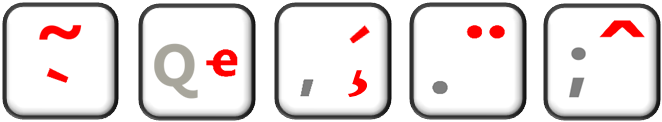
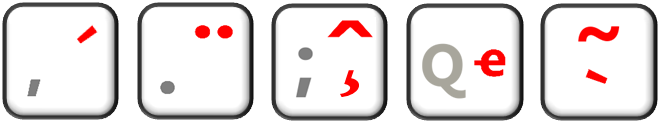
Add files via upload

diff --git a/index.html b/index.html
@@ -47,6 +47,9 @@
   .brand small{font-size:22px;font-weight:400;color:#d0d0d0;margin-left:10px}
   .topKeys{display:flex;gap:14px}
   .topKeys img{width:64px;height:64px;object-fit:contain;filter:drop-shadow(0 3px 4px rgba(0,0,0,.35))}
+  .topKeys {
+  transform: translateX(-220px); /* 왼쪽으로 이동 */
+}
   .surface{display:grid;grid-template-columns:1.25fr 220px;gap:24px;align-items:start}
   .padWrap{background:#1a2230;border:none;min-height:520px;padding:0;border-radius:6px}
   #pad{width:100%;min-height:520px;border:none;background:#1a2230;color:#fff;outline:none;padding:22px;margin:0;resize:none;font:28px/1.6 ui-monospace,Menlo,Consolas,monospace;border-radius:6px}
@@ -145,7 +148,7 @@
 
     <div class="slide on" data-step="0">
       <div class="s1-wrap">
-        <h1 class="title1">UniQwerty / Parallel Layout</h1>
+        <h1 class="title1">UniQwerty / Parallel Accents</h1>
         <div class="bullets">
           <div>&nbsp;&nbsp;</div>
 		  <div>•&nbsp;&nbsp;No Dead Keys. No Shift. No AltGr. No Long Press.</div>
@@ -158,49 +161,13 @@
       </div>
     </div>
 
-    <div class="slide" data-step="1">
-      <div class="frame">
-        <img class="keyIcon" src="img/grave.png" alt="Grave & Tilde keys">
-        <h3 class="hd">How to use this key</h3>
-        <p class="sub">`+aeiou → àèìòù <small></small><br>
-        `+n → ñ <small>(Shift is not required)</small><br>
-		Otherwise, it stays as the symbol itself.</p>
-        <div class="rule">
-          <svg class="check" viewBox="0 0 24 24" xmlns="http://www.w3.org/2000/svg"><path fill="#10b981" d="M9 16.2 4.8 12l-1.4 1.4L9 19 21 7l-1.4-1.4z"/></svg>
-          <div class="ruleText">
-            You don’t need to press Shift to type “~” for ñ/Ñ.<br>
-			Your grave input(`) is always entered as the accent grave(`) before aeiou, but as the accent tilde(~) before n, and as the symbol grave in all other cases.<br>
-			This is what the Parallel Layout is about.
-          </div>
-        </div>
-        <div class="counter">2/7</div>
-      </div>
-    </div>
-
-    <div class="slide" data-step="2">
-      <div class="frame">
-        <img class="keyIcon" src="img/q.png" alt="q ligature key">
-        <h3 class="hd">How to use this key</h3>
-        <p class="sub">q+a → æ<br>q+o → œ<br><small></small>
-		Otherwise, it stays as just q</p>
-        <div class="rule">
-          <svg class="check" viewBox="0 0 24 24" xmlns="http://www.w3.org/2000/svg"><path fill="#10b981" d="M9 16.2 4.8 12l-1.4 1.4L9 19 21 7l-1.4-1.4z"/></svg>
-          <div class="ruleText">
-            You probably don’t know any words that contain <b>-qa-</b> or <b>-qo-</b>.<br>
-            So this combination safely serves only for accent input.
-          </div>
-        </div>
-        <div class="counter">3/7</div>
-      </div>
-    </div>
 
     <div class="slide" data-step="3">
       <div class="frame">
         <img class="keyIcon" src="img/comma.png" alt="comma trigger key">
         <h3 class="hd">How to use this key</h3>
         <p class="sub">,+aeiouy → áéíóúý <small></small><br>
-        ,+c → ç <small></small><br>
-		Otherwise, it stays as comma.</p>
+        Otherwise, it stays as comma.</p>
         <div class="rule">
           <svg class="check" viewBox="0 0 24 24" xmlns="http://www.w3.org/2000/svg"><path fill="#10b981" d="M9 16.2 4.8 12l-1.4 1.4L9 19 21 7l-1.4-1.4z"/></svg>
           <div class="ruleText">
@@ -208,7 +175,7 @@
             Therefore, there’s absolutely no chance of conflict when you type a vowel right after it.
           </div>
         </div>
-        <div class="counter">4/7</div>
+        <div class="counter">2/7</div>
       </div>
     </div>
 
@@ -225,7 +192,7 @@
             So this pattern never interferes with your regular writing.
           </div>
         </div>
-        <div class="counter">5/7</div>
+        <div class="counter">3/7</div>
       </div>
     </div>
 
@@ -234,6 +201,7 @@
         <img class="keyIcon" src="img/semicolon.png" alt="semicolon trigger key">
         <h3 class="hd">How to use this key</h3>
         <p class="sub">;+aeiouy → âêîôûŷ <small></small><br>
+		;+c → ç <small></small><br>
 		Otherwise, it stays as semicolon.</p>
         <div class="rule">
           <svg class="check" viewBox="0 0 24 24" xmlns="http://www.w3.org/2000/svg"><path fill="#10b981" d="M9 16.2 4.8 12l-1.4 1.4L9 19 21 7l-1.4-1.4z"/></svg>
@@ -244,21 +212,58 @@
 It’s a good habit to leave a space after it.)
           </div>
         </div>
-        <div class="counter">6/7</div>
+        <div class="counter">4/7</div>
       </div>
     </div>
+
+    <div class="slide" data-step="2">
+      <div class="frame">
+        <img class="keyIcon" src="img/q.png" alt="q ligature key">
+        <h3 class="hd">How to use this key</h3>
+        <p class="sub">q+a → æ<br>q+o → œ<br><small></small>
+		Otherwise, it stays as just q</p>
+        <div class="rule">
+          <svg class="check" viewBox="0 0 24 24" xmlns="http://www.w3.org/2000/svg"><path fill="#10b981" d="M9 16.2 4.8 12l-1.4 1.4L9 19 21 7l-1.4-1.4z"/></svg>
+          <div class="ruleText">
+            You probably don’t know any words that contain <b>-qa-</b> or <b>-qo-</b>.<br>
+            So this combination safely serves only for accent input.
+          </div>
+        </div>
+        <div class="counter">5/7</div>
+      </div>
+    </div>
+
+    <div class="slide" data-step="1">
+      <div class="frame">
+        <img class="keyIcon" src="img/grave.png" alt="Grave & Tilde keys">
+        <h3 class="hd">How to use this key</h3>
+        <p class="sub">`+aeiou → àèìòù <small></small><br>
+        `+n → ñ <small>(Shift is not required)</small><br>
+		Otherwise, it stays as the symbol itself.</p>
+        <div class="rule">
+          <svg class="check" viewBox="0 0 24 24" xmlns="http://www.w3.org/2000/svg"><path fill="#10b981" d="M9 16.2 4.8 12l-1.4 1.4L9 19 21 7l-1.4-1.4z"/></svg>
+          <div class="ruleText">
+            You don’t need to press Shift to type “~” for ñ/Ñ.<br>
+			Your grave input(`) is always entered as the accent grave(`) before aeiou, but as the accent tilde(~) before n, and as the symbol grave in all other cases.<br>
+			This is what the Parallel Accents is about.
+          </div>
+        </div>
+        <div class="counter">6/7</div>
+      </div>
+    </div>	
 	
     <div class="slide" data-step="6">
       <div class="frame">
         <img class="keyIcon" src="img/tip.png" alt="semicolon trigger key">
         <h3 class="hd">Tip for Developers</h3>
         <p class="sub">Q. Does UniQwerty cause any issues while coding? <small></small><br>
-		A. Almost none.</p>
+		A. Don't worry.</p>
         <div class="rule">
           <svg class="check" viewBox="0 0 24 24" xmlns="http://www.w3.org/2000/svg"><path fill="#10b981" d="M9 16.2 4.8 12l-1.4 1.4L9 19 21 7l-1.4-1.4z"/></svg>
           <div class="ruleText">
-            Leave a space after commas and semicolons.<br>
-            If a backtick (`) ever triggers an accent, just press Backspace once — then retype it, and it’ll stay as plain text.
+            Always leave a space after commas and semicolons, just as you normally would.<br><br>
+            The grave key specifically has a developer option.<br>
+When this option is enabled, you can type the plain grave symbol instead of the grave accent by pressing `+Space.
           </div>
         </div>
         <button class="tryBig" id="tryBig">Try it now</button>
@@ -282,13 +287,13 @@ It’s a good habit to leave a space after it.)
 <section id="demo">
   <div class="demoWrap">
     <div class="demoTop">
-      <div class="brand">UniQwerty<small> Feel the Parallel Layout</small></div>
-      <div class="topKeys">
-        <img src="img/grave.png" alt="grave">
-        <img src="img/q.png" alt="q">
+      <div class="brand">UniQwerty<small> Feel the Parallel Accents</small></div>
+      <div class="topKeys">        
         <img src="img/comma.png" alt="comma">
         <img src="img/dot.png" alt="dot">
         <img src="img/semicolon.png" alt="semicolon">
+		<img src="img/q.png" alt="q">
+		<img src="img/grave.png" alt="grave">
       </div>
     </div>
     <div class="surface">
@@ -488,21 +493,21 @@ if ((k === 'o' || k === 'O' || k === 'a' || k === 'A') && hasTrailingOne(pad, 'q
   return;
 }
 
+// ------ CEDILLA: ';' + c/C → ç/Ç (consume only ONE semicolon; keep earlier semicolons)
+if ((k==='c'||k==='C') && countTrailing(pad, ';') >= 1) {
+  ev.preventDefault(); snapshot();
+  const cnt = countTrailing(pad, ';');
+  const keep = Math.max(0, cnt-1);
+  const {start, val} = sel(pad);
+  const left = val.slice(0, start - cnt) + ';'.repeat(keep);
+  const right = val.slice(start);
+  const out = (k==='C') ? 'Ç' : 'ç';
+  lastTransform = { trigger: ';', target: k, posAfterTrigger: (start - cnt) + keep + 1 };
+  pad.value = left + out + right;
+  setCaret(pad, left.length + out.length);
+  return;
+}
 
-    // ------ CEDILLA: ',' + c/C → ç/Ç (consume only ONE comma; keep earlier commas)
-    if ((k==='c'||k==='C') && countTrailing(pad, ',') >= 1) {
-      ev.preventDefault(); snapshot();
-      const cnt = countTrailing(pad, ',');         // e.g., 1,2,3...
-      const keep = Math.max(0, cnt-1);             // keep first (cnt-1) commas
-      const {start, val} = sel(pad);
-      const left = val.slice(0, start - cnt) + ','.repeat(keep);
-      const right = val.slice(start);
-      const out = (k==='C') ? 'Ç' : 'ç';
-	  lastTransform = { trigger: ',', target: k, posAfterTrigger: (start - cnt) + keep + 1 };
-      pad.value = left + out + right;
-      setCaret(pad, left.length + out.length);
-      return;
-    }
 
 // ------ GRAVE-N: '`' + n/N → ñ/Ñ (consume only ONE backtick; keep earlier backticks)
 if ((k==='n' || k==='N') && countTrailing(pad, '`') >= 1) {
@@ -612,7 +617,7 @@ window.addEventListener('load', function(){
 <section id="reviews" style="background:#f3f1e7; padding:64px 0; font-family:var(--ui-font);">
   <h2 style="text-align:center; font-size:42px; margin:0 0 12px; color:#000;">Leave a Review</h2>
   <p style="text-align:center; margin:0 0 28px; line-height:1.6; color:#333;">
-    UniQwerty - Parallel Layout
+    UniQwerty - Parallel Accents
   </p>
 
   <!-- form -->
